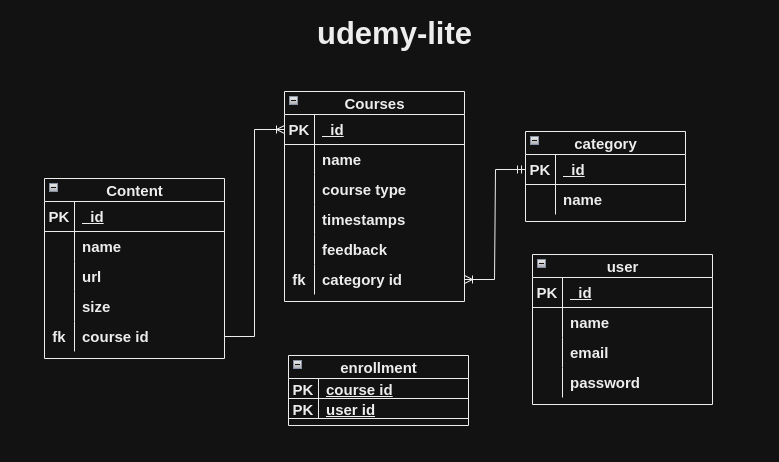
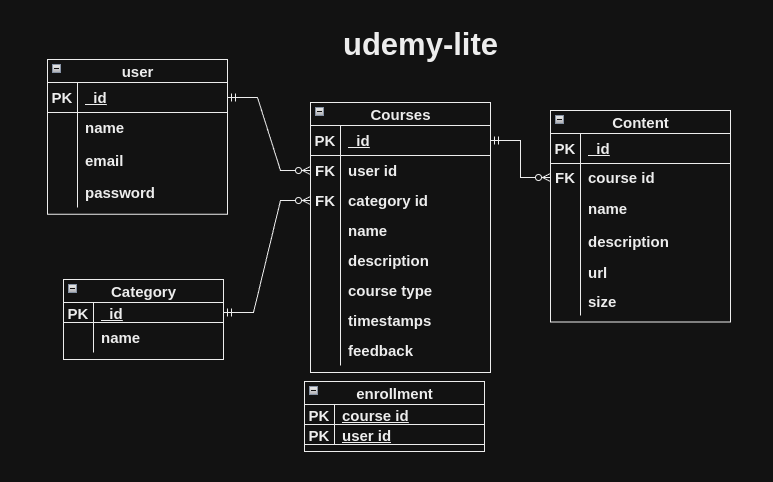
update database models

diff --git a/udemy_lite/models/course.py b/udemy_lite/models/course.py
@@ -14,12 +14,13 @@ class CourseType(Enum):
 class Category(SQLModel, table=True):
     id: uuid.UUID = Field(primary_key=True)
     name: str
-    course_id: uuid.UUID = Field(foreign_key="course.id")
+    courses: list["Course"] = Relationship(back_populates="courses")
 
 
 class Content(SQLModel, table=True):
     id: uuid.UUID = Field(primary_key=True)
     name: str
+    description: Optional["str"]
     content_type: str
     course_id: uuid.UUID = Field(foreign_key="course.id")
     course: "Course" = Relationship(back_populates="content")
@@ -28,13 +29,16 @@ class Content(SQLModel, table=True):
 class Course(SQLModel, table=True):
     id: uuid.UUID = Field(primary_key=True)
     name: str
+    description: Optional["str"]
     course_type: CourseType
     time_stamps: date
-    rate: confloat(ge=0.0, le=10)
-    content: list[Content] = Relationship(back_populates="course")
+    rate: confloat(ge=0.0, le=10)  # type: ignore
     user_id: uuid.UUID = Field(foreign_key="user.id")
+    category_id: uuid.UUID = Field(foreign_key="category.id")
+    content: list[Content] = Relationship(back_populates="course")
     user: Optional["User"] = Relationship(back_populates="courses")  # type: ignore
-    enrolments: Optional["Enrolment"] = Relationship(back_populates="course")  # type: ignore
+    category: Optional["Category"] = Relationship(back_populates="courses")  # type: ignore
+    enrolments: list["Enrolment"] = Relationship(back_populates="course")  # type: ignore
 
     @field_validator("course_type")
     def title_case_type(cls, value):

diff --git a/udemy_lite/routes/course.py b/udemy_lite/routes/course.py
@@ -1,5 +1,4 @@
 from fastapi import APIRouter
-from ..models.course import CourseType, CourseBase, CourseCreate, CourseWithID
 
 course_router = APIRouter()
 
@@ -10,12 +9,12 @@ async def get_courses() -> list[dict]:
 
 
 @course_router.get("/courses/{course_id}")
-async def get_course_by_id(course_id: int) -> CourseWithID:
+async def get_course_by_id(course_id: int):
     pass
 
 
 @course_router.post("/courses")
-async def create_course(course_data: CourseCreate) -> CourseWithID:
+async def create_course(course_data):
     pass
 
 

diff --git a/udemy_lite/main.py b/udemy_lite/main.py
@@ -1,9 +1,18 @@
+from contextlib import asynccontextmanager
 from fastapi import FastAPI
 from udemy_lite.routes.course import course_router
 from udemy_lite.routes.user import user_router
+from .database import create_db_and_tables
 import uvicorn
 
-app = FastAPI()
+
+@asynccontextmanager
+async def lifespan(app: FastAPI):
+    create_db_and_tables()
+    yield
+
+
+app = FastAPI(lifespan=lifespan)
 
 app.include_router(course_router)
 app.include_router(user_router)

diff --git a/udemy_lite/models/user.py b/udemy_lite/models/user.py
@@ -11,7 +11,7 @@ class User(SQLModel, table=True):
     email: str
     password: str
     courses: list[Course] = Relationship(back_populates="user")
-    enrolments: Optional["Enrolment"] = Relationship(back_populates="user")
+    enrolments: list["Enrolment"] = Relationship(back_populates="user")
 
 
 class Enrolment(SQLModel, table=True):
